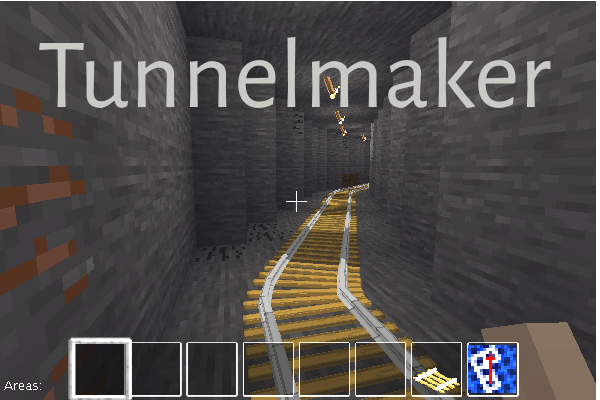
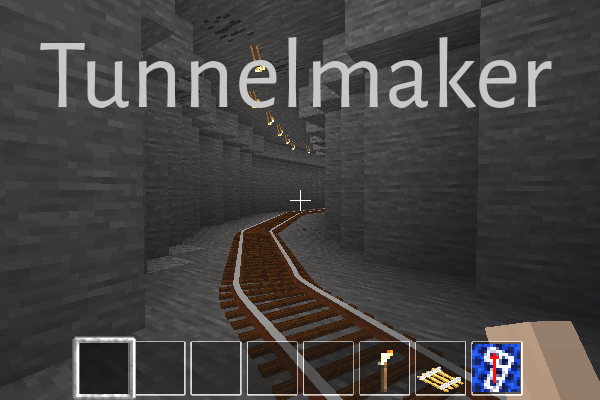
Increase tunnel width to 5 blocks, height to 5 blocks, and add reference block to aid with laying advtrains track.

diff --git a/README.md b/README.md
@@ -12,13 +12,15 @@ Features
 --------
 - Creates tunnel segments in any of sixteen possible directions with one click.
 - Direction of digging based on direction player is pointing.
-- Provides changing icons to help player align in proper direction.
+- Provides changing icon to help player align in proper direction.
 - Uses privileges, requires "tunneling" privilege to be able to use.
 - Checks protection, and doesn't dig any protected nodes.
 - Reference point is at ground level: possible to increase or decrease the grade by changing the height of the reference node.
-- Fills in holes in flooring with cobblestone.
+- Fills in holes in flooring with stone.
 - Adds torches to ceiling if ceiling is stone or desert_stone.
 - Works outside of tunnels to clear ground and provide cuts and fills.
+- New:  Increased tunnel width to 5 blocks and height to 5 blocks.
+- New:  Now adds cobblestone reference blocks in floor, to help align advtrains track.
 
 
 How to use
